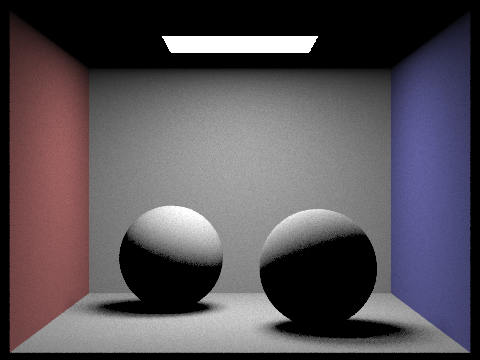
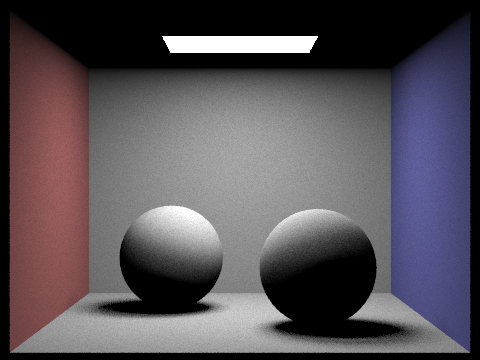
updated spheres intersection

Changed region(s): [[0.5312, 0.6417, 0.7812, 0.7944], [0.25, 0.6417, 0.4688, 0.7944]]

diff --git a/src/scene/sphere.cpp b/src/scene/sphere.cpp
@@ -26,12 +26,15 @@ bool Sphere::test(const Ray &r, double &t1, double &t2) const {
 
   t1 = (-b - sqrt(delta)) / (2 * a);
   t2 = (-b + sqrt(delta)) / (2 * a);
-  if (t1 < r.min_t || t1 > r.max_t) {
-    return false;
-  }
 
-  r.max_t = t1;
-  return true;
+  if (t1 >= r.min_t && t1 <= r.max_t) {
+    return true;
+  } else if (t2 >= r.min_t && t2 <= r.max_t) {
+    t1 = t2;
+    return true;
+  } 
+  
+  return false;
 }
 
 bool Sphere::has_intersection(const Ray &r) const {
@@ -58,6 +61,7 @@ bool Sphere::intersect(const Ray &r, Intersection *i) const {
   }
   if (result) {
     i->t = t1;
+    r.max_t = t1;
     i->n = (r.o + t1 * r.d - o).unit();
     i->primitive = this;
     i->bsdf = get_bsdf();
